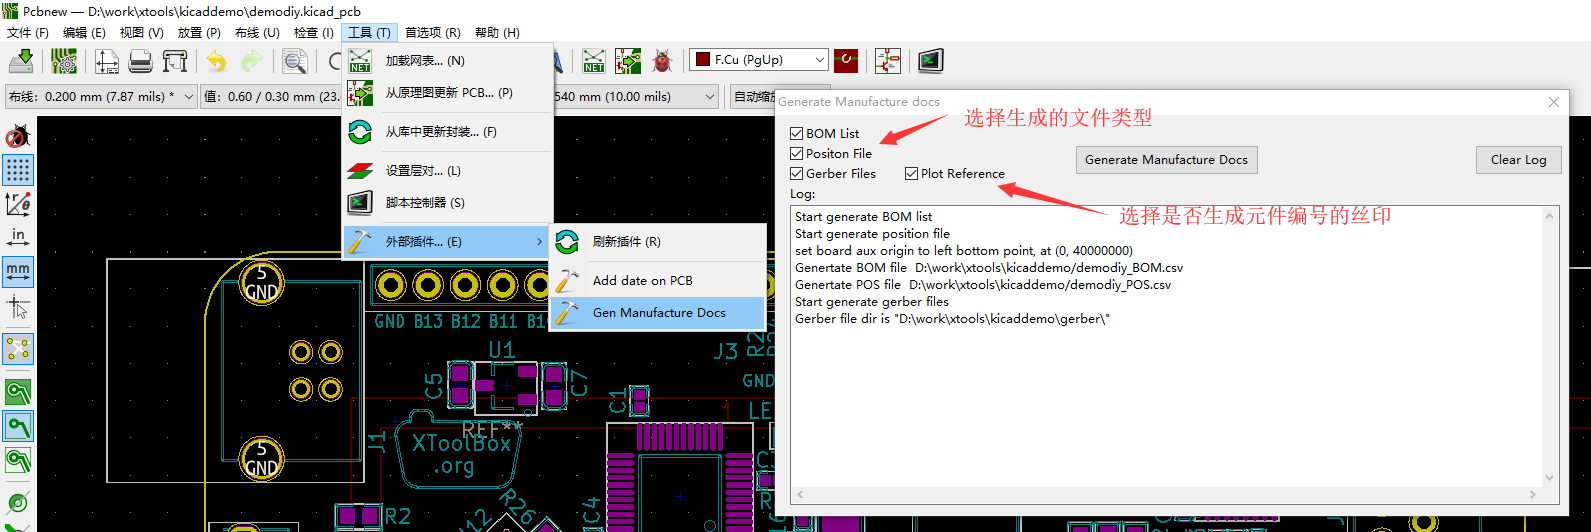
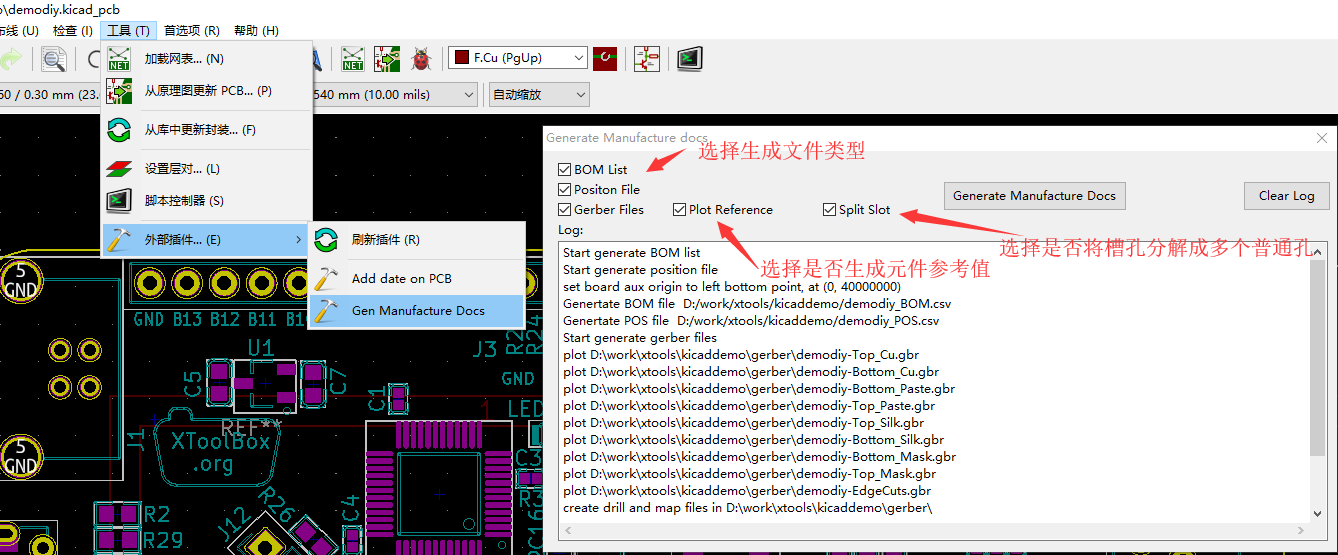
Add an option to generate hole series or slot in drill file

diff --git a/gerber_drill.py b/gerber_drill.py
@@ -129,7 +129,8 @@ def GenGerberDrill(board = None, split_G85 = 0.2, plotDir = "plot/", plotReferen
 	#drlwriter.GenDrillReportFile( rptfn );
 	
 	if split_G85:
-		SplitG85InDrill(pctl.GetPlotDirName(), False, split_G85)
+		logger("Split the slot into holes")
+		SplitSlotInDrill(pctl.GetPlotDirName(), False, split_G85)
 
 	files = [f for f in os.listdir(pctl.GetPlotDirName()) if f.endswith('.gbr')]
 	for f in files:
@@ -140,7 +141,10 @@ def GenGerberDrill(board = None, split_G85 = 0.2, plotDir = "plot/", plotReferen
 		plotFiles.append( pctl.GetPlotDirName() + f )
 
 	brdName = board.GetFileName()
-	brdName = brdName[brdName.rfind(os.path.sep)+1: brdName.rfind('.')]
+	s = os.path.split(brdName)
+	brdName = s[1]
+	brdName = brdName[0:brdName.rfind('.')]
+	logger("Board Name:", brdName)
 	zipName = pctl.GetPlotDirName() + brdName + "_gerber.zip"
 	logger("Zip them into " + zipName)
 
@@ -161,7 +165,30 @@ def FromGerberPosition(position_str):
 
 def same(p1,p2,diff = 0.0001):
 	return (abs(p1[0]-p2[0])<diff) and (abs(p1[1]-p2[1])<diff)
-	
+
+def SplitSlot(p1, p2, step = 0.2):
+	r = []
+	dx = p2[0] - p1[0]
+	dy = p2[1] - p1[1]
+	dist = sqrt(dx*dx+dy*dy)
+	td = 0
+	pt = [p1[0],p1[1]]
+	count = 0
+	while not same(pt,p2):
+		r.append('X%sY%s\n' %(str(float('%.3f'%pt[0])),str(float('%.3f'%pt[1]))))
+		pt[0] = pt[0] + step*dx/dist
+		pt[1] = pt[1] + step*dy/dist
+		if dist - td < (step*1.5):
+			pt[0] = p2[0]
+			pt[1] = p2[1]
+		else:
+			td = td + step
+		count = count + 1
+		if count > 50:
+			break
+	r.append('X%sY%s\n' %(str(float('%.3f'%pt[0])),str(float('%.3f'%pt[1]))))
+	return r
+
 def SplitG85(G85Data,step = 0.2):
 	t = G85Data.split('G85')
 	r = []
@@ -187,9 +214,9 @@ def SplitG85(G85Data,step = 0.2):
 			if count > 50:
 				break
 		r.append('X%sY%s\n' %(str(float('%.3f'%pt[0])),str(float('%.3f'%pt[1]))))
-		return r, True
+		return r
 	else:
-		return [G85Data], False
+		return None
 
 def HoleSize(line):
 	r = re.compile('(T[0-9]+)C([-0-9.]+)')
@@ -206,9 +233,21 @@ def round(value, round = 0.1):
 	t = math.ceil(t)
 	return t * round
 
-def SplitG85InDrill(drillPath, newfilename = True,step = 0.2):
-	''' Split the G85 command to hole seqence in drill file
-	'''
+def isG05(line):
+	return line.find('G05') == 0
+
+def isG00(line):
+	return line.find('G00') == 0
+def isG01(line):
+	return line.find('G01') == 0
+def isM15(line):
+	return line.find('M15') == 0
+def isM16(line):
+	return line.find('M16') == 0
+
+
+
+def SplitSlotInDrill(drillPath, newfilename = True,step = 0.2):
 	files = [f for f in os.listdir(drillPath) if f.endswith('.drl')]
 	for fn in files:
 		infn = drillPath + fn
@@ -219,6 +258,9 @@ def SplitG85InDrill(drillPath, newfilename = True,step = 0.2):
 				skip_G05 = False
 				holes = {}
 				curHolesSize = None
+				slot_mode = False
+				hole_begin = None
+				hole_end = None
 				for line in ins:
 					hn,hs = HoleSize(line)
 					if hn and hs:
@@ -228,17 +270,39 @@ def SplitG85InDrill(drillPath, newfilename = True,step = 0.2):
 					step = 0.2
 					if curHolesSize:
 						step = round(curHolesSize/3)
-					r, nextSkip = SplitG85(line, step)
-					if skip_G05 and (r[0].find('G05') == 0):
-						skip_G05 = False
+					r = SplitG85(line, step)
+					if not r:
+						if isG00(line):
+							slot_mode = True
+							hole_begin = FromGerberPosition(line)
+					if not slot_mode:
+						if r:
+							skip_G05 = True
+							for l in r:
+								outline.append(l)
+						else:
+							if skip_G05 and isG05(line):
+								skip_G05 = False
+							else:
+								outline.append(line)
 					else:
-						skip_G05 = nextSkip
-						for l in r:
-							outline.append(l)
+						if isG01(line):
+							hole_end = FromGerberPosition(line)
+						if isG05(line):
+							slot_mode = False
+							if hole_begin and hole_end:
+								r = SplitSlot(hole_begin, hole_end, step)
+								for l in r:
+									outline.append(l)
+							else:
+								logger("Slot hole format error")
+							hole_begin = None
+							hole_end = None
 				ins.close()
 				if newfilename:
 					outfn = infn.replace(".drl", "_no_slot.drl")
 				fo = open(outfn, "w+")
 				fo.writelines(outline)
 				fo.close()
+
 	

diff --git a/mf_tool.py b/mf_tool.py
@@ -668,16 +668,18 @@ class MFDialog(wx.Dialog):
         self.chkPos = wx.CheckBox(self, label = "Positon File ", pos = (15, 30))
         self.chkGerber = wx.CheckBox(self, label = "Gerber Files", pos = (15, 50))
         self.chkPlotRef = wx.CheckBox(self, label = "Plot Reference", pos = (130, 50))
+        self.chkSplitSlot = wx.CheckBox(self, label = "Split Slot", pos = (280, 50))
         self.chkBOM.SetValue(True)
         self.chkPos.SetValue(True)
         self.chkGerber.SetValue(True)
         self.chkPlotRef.SetValue(True)
+        self.chkSplitSlot.SetValue(True)
 
         self.static_text = wx.StaticText(self, -1, 'Log:', style=wx.ALIGN_CENTER, pos = (15, 70))
         self.area_text = wx.TextCtrl(self, -1, '', size=(770, 300), pos = (15, 90),
                                      style=(wx.TE_MULTILINE | wx.TE_AUTO_SCROLL | wx.TE_DONTWRAP| wx.TE_READONLY))
 
-        self.btnGen = wx.Button(self, label = "Generate Manufacture Docs", pos=(300, 30))
+        self.btnGen = wx.Button(self, label = "Generate Manufacture Docs", pos=(400, 30))
         self.Bind(wx.EVT_BUTTON, self.Onclick, self.btnGen)
         
         self.btnClearLog = wx.Button(self, label = "Clear Log", pos=(700, 30))
@@ -703,7 +705,15 @@ class MFDialog(wx.Dialog):
             GenMFDoc(needGenBOM = self.chkBOM.GetValue(), needGenPos = self.chkPos.GetValue(), logger = lambda *args: self.log(*args) )
             if self.chkGerber.GetValue():
                 self.area_text.AppendText("Start generate gerber files\n")
-                gerberPath = gd.GenGerberDrill(board = None, split_G85 = 0.2, plotDir = "gerber/", plotReference = self.chkPlotRef.GetValue(), logger = lambda *args: self.log(*args))
+                split_slot = None
+                if self.chkSplitSlot.GetValue():
+                    split_slot = 0.2
+                gerberPath = gd.GenGerberDrill(
+                    board = None,
+                    split_G85 = split_slot,
+                    plotDir = "gerber/",
+                    plotReference = self.chkPlotRef.GetValue(),
+                    logger = lambda *args: self.log(*args))
                 self.area_text.AppendText( 'Gerber file dir is "%s"' % gerberPath)
         except Exception as e:
             self.area_text.AppendText("Error:\n")

diff --git a/README.md b/README.md
@@ -49,3 +49,11 @@ step 4: the BOM and Postion CSV file will be generated under the same folder of 
 ## Attention:
 
 The GenMFDoc() command will change the Aux original point
+
+## Preivew
+
+
+![holes_with_ref](holes_with_ref.png)
+
+
+![slot_without_ref](slot_without_ref.png)
